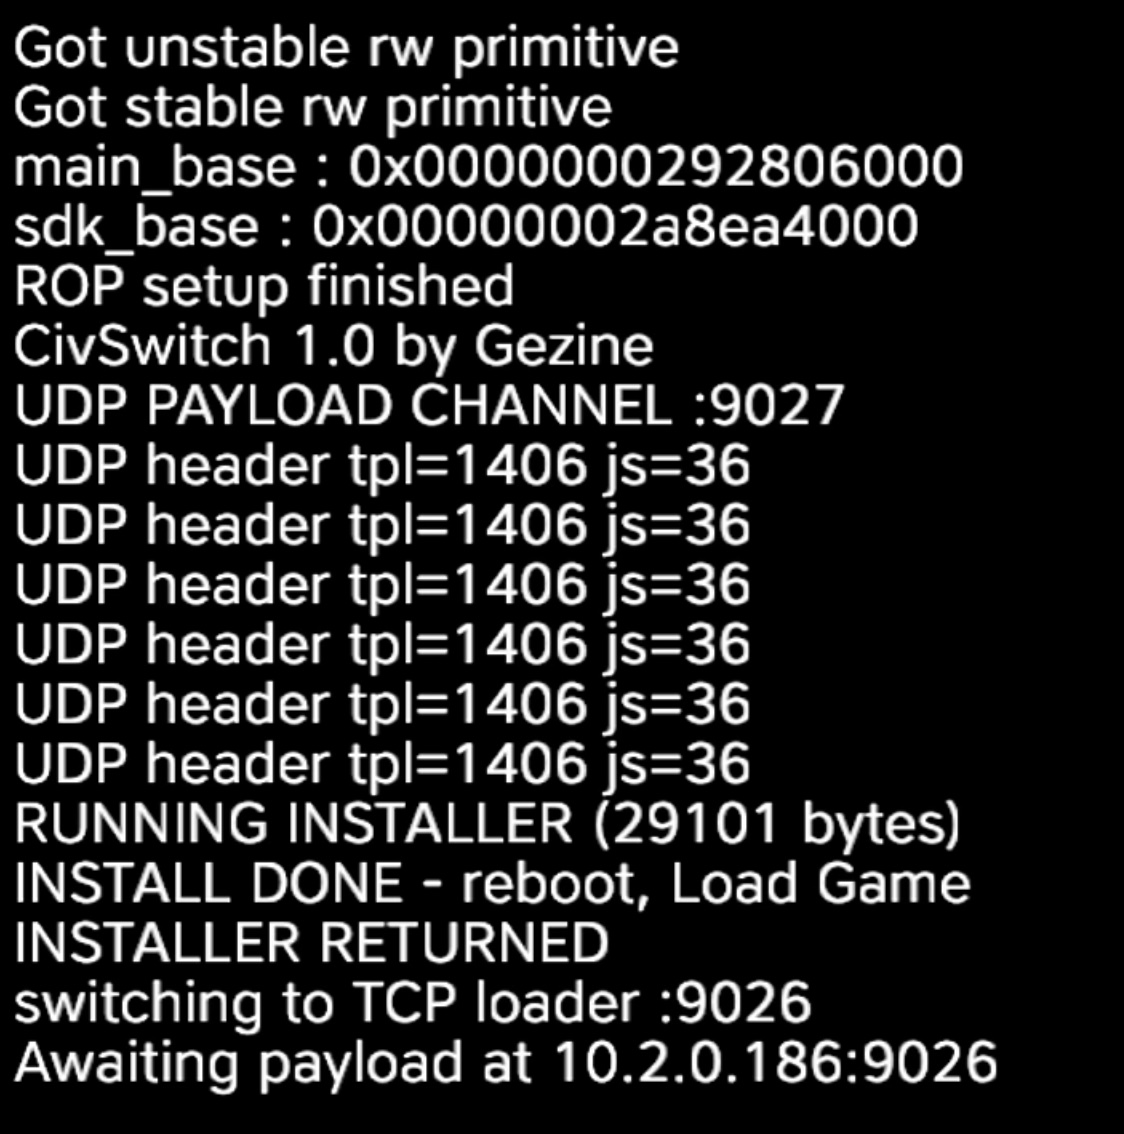
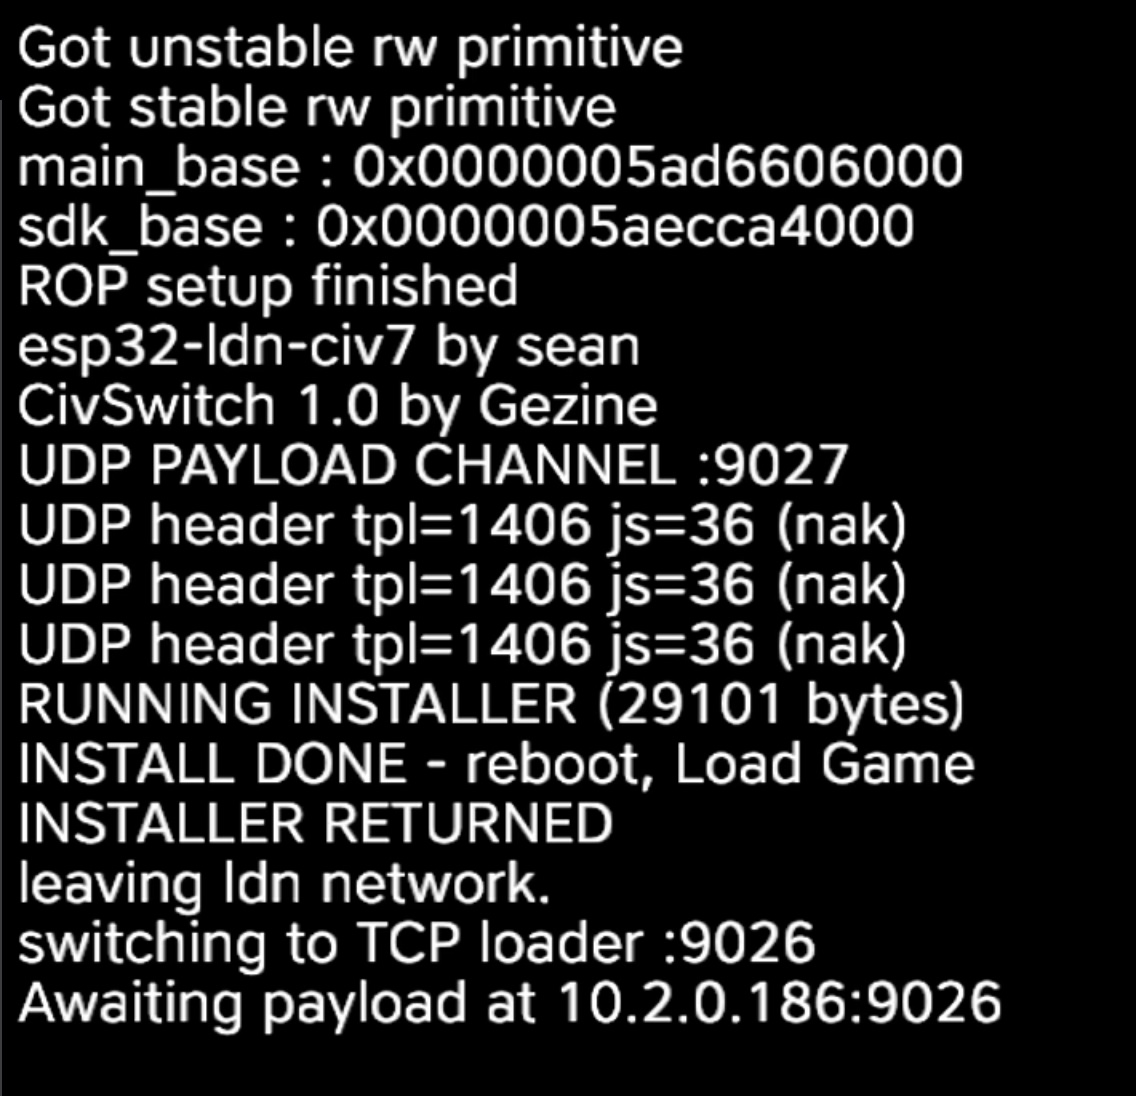
esp32-ldn-civ7: NAK-based installer transfer
- the board sends one fast pass; the console reports only the missing
  chunks and the board resends just those, so the installer starts as
  soon as the last chunk lands (~3 s instead of ~10 s of blind passes)
- put the board IP in the UDP header so the console can send NAKs/D
- accept :9027 replies in the Wi-Fi rx path; keep the installer task and
  its partition reads on one side of a queue
- README: document the NAK flow, update the sample output and timing,
  use <console-ip>, and link esp32-ldn-civ7 from the root README
- new successful-run screenshot

diff --git a/esp32-ldn-civ7/tools/udp_loader.js b/esp32-ldn-civ7/tools/udp_loader.js
@@ -58,40 +58,93 @@
             await log("UDP PAYLOAD CHANNEL :9027");
 
             const buf = malloc(2048);
+            const tx = malloc(64);
             const tpl = [], js = [];
-            let needT = 0, needJ = 0, rx = 0;
+            let needT = 0, needJ = 0, rx = 0, gotT = 0, gotJ = 0;
+            let connected = false, finished = false;
+
+            function udp_tx(text) {
+                const len = text.length;
+                for (let i = 0; i < len; i++) write8(tx + BigInt(i), BigInt(text.charCodeAt(i)));
+                send(fd, tx, len, 0);
+            }
+
+            async function finish_install() {
+                if (finished) return;
+                finished = true;
+                for (let k = 0; k < 3; k++) udp_tx("D");
+                window.__tpl = tpl.slice(0, needT);
+                const src = b64d(js.slice(0, needJ).join(""));
+                await log("RUNNING INSTALLER (" + src.length + " bytes)");
+                try { await eval(src); } catch (e) { await log("E: " + e.message); await log(e.stack); }
+                await log("INSTALLER RETURNED");
+                await log("leaving ldn network.");
+                await log("switching to TCP loader :9026");
+                await remote_js_loader();
+            }
+
+            async function try_finish() {
+                if (!finished && needT && needJ && gotT >= needT && gotJ >= needJ)
+                    await finish_install();
+            }
+
+            function request_missing() {
+                let n = 0;
+                for (let i = 0; i < needT && n < 96; i++)
+                    if (!tpl[i]) { udp_tx("t" + i); n++; }
+                for (let i = 0; i < needJ && n < 96; i++)
+                    if (!js[i]) { udp_tx("j" + i); n++; }
+                return n;
+            }
+
             for (;;) {
                 const n = Number(recv(fd, buf, 2048, 0));
                 if (n <= 0) continue;
                 rx++;
+                if (finished) continue;
                 let s;
                 try { s = fast_str(buf, n); } catch (e) { s = ""; }
                 if (!s) continue;
                 try {
                     const c = s[0], p = s.indexOf(':');
-                    if (c === 'T') { tpl[+s.slice(1, p)] = s.slice(p + 1); }
-                    else if (c === 'J') { js[+s.slice(1, p)] = s.slice(p + 1); }
-                    else if (c === 'A') { needT = +s.slice(1, p); needJ = +s.slice(p + 1);
-                        await log("UDP header tpl=" + needT + " js=" + needJ); }
-                    else if (c === 'G') {
-                        let missT = [], missJ = [];
-                        for (let i = 0; i < needT; i++) if (!tpl[i]) missT.push(i);
-                        for (let i = 0; i < needJ; i++) if (!js[i]) missJ.push(i);
-                        if (missT.length || missJ.length || !needT) {
-                            await log("UDP incomplete rx=" + rx + " missT=" + missT.length +
-                                      (missT.length ? "[" + missT.slice(0, 10).join(",") + "]" : "") +
-                                      " missJ=" + missJ.length +
-                                      (missJ.length ? "[" + missJ.slice(0, 10).join(",") + "]" : ""));
+                    if (c === 'T' || c === 'J') {
+                        const arr = (c === 'T') ? tpl : js;
+                        const i = +s.slice(1, p);
+                        if (!arr[i]) {
+                            arr[i] = s.slice(p + 1);
+                            if (c === 'T') gotT++; else gotJ++;
+                        }
+                        await try_finish();
+                    } else if (c === 'A') {
+                        const p2 = s.indexOf(':', p + 1);
+                        needT = +s.slice(1, p);
+                        needJ = p2 > 0 ? +s.slice(p + 1, p2) : +s.slice(p + 1);
+                        if (p2 > 0 && !connected) {
+                            const ip = s.slice(p2 + 1).split('.');
+                            if (ip.length === 4) {
+                                for (let i = 0; i < 16; i++) write8(sockaddr_in + BigInt(i), 0);
+                                write8(sockaddr_in, 16n);
+                                write8(sockaddr_in + 1n, 2n);
+                                write16(sockaddr_in + 2n, BigInt(((UD & 0xff) << 8) | (UD >> 8)));
+                                write32(sockaddr_in + 4n,
+                                    BigInt(+ip[0]) | (BigInt(+ip[1]) << 8n) |
+                                    (BigInt(+ip[2]) << 16n) | (BigInt(+ip[3]) << 24n));
+                                connected = connect(fd, sockaddr_in, 16) === 0n;
+                            }
+                        }
+                        await log("UDP header tpl=" + needT + " js=" + needJ +
+                                  (connected ? " (nak)" : ""));
+                    } else if (c === 'G') {
+                        if (!connected) {
+                            await log("UDP no return path; cannot request missing chunks");
                             continue;
                         }
-                        window.__tpl = tpl.slice(0, needT);
-                        const src = b64d(js.slice(0, needJ).join(""));
-                        await log("RUNNING INSTALLER (" + src.length + " bytes)");
-                        try { await eval(src); } catch (e) { await log("E: " + e.message); await log(e.stack); }
-                        await log("INSTALLER RETURNED");
-                        await log("leaving ldn network.");
-                        await log("switching to TCP loader :9026");
-                        await remote_js_loader();
+                        const miss = request_missing();
+                        if (miss) {
+                            await log("UDP repairing " + miss + " chunk(s) rx=" + rx);
+                        } else {
+                            await try_finish();
+                        }
                     }
                 } catch (e) { await log("udp rx: " + e.message); }
             }

diff --git a/esp32-ldn-civ7/main/installer.c b/esp32-ldn-civ7/main/installer.c
@@ -10,9 +10,11 @@
 #include <string.h>
 #include <stdio.h>
 #include <stdlib.h>
+#include <stdbool.h>
 
 #include "freertos/FreeRTOS.h"
 #include "freertos/task.h"
+#include "freertos/queue.h"
 #include "esp_log.h"
 #include "esp_wifi.h"
 #include "esp_netif.h"
@@ -154,72 +156,105 @@ static uint32_t blob_len(uint32_t off) {
 /* --------------------------------------------------------------- install */
 
 /* Fully offline: stream the installer over the LDN link to the UDP receiver
- * that core_udp.js binds on :9027.  Datagrams: A<tpl>:<js>, T<i>:<b64>,
- * J<i>:<b64>, G. */
+ * that core_udp.js binds on :9027.
+ *
+ * Board -> console: A<tpl>:<js>:<board ip>, T<i>:<b64>, J<i>:<b64>, G
+ * Console -> board: D (all received), t<i>/j<i> (resend that chunk)
+ *
+ * One fast pass plus a NAK repair window: the console starts the installer as
+ * soon as the last chunk lands instead of waiting for blind retransmissions. */
 #define UDP_CHUNK 1100
 #define UDP_PORT 9027
+
+static uint32_t s_tpl_len, s_js_len;
+static int s_need_t, s_need_j;
+static QueueHandle_t s_req_q;
+static volatile bool s_done;
+
+static void send_chunk(bool js, int i) {
+    if (js ? (i < 0 || i >= s_need_j) : (i < 0 || i >= s_need_t)) return;
+    uint32_t base = js ? APPLY_OFF : TPL_OFF;
+    uint32_t total = js ? s_js_len : s_tpl_len;
+    uint32_t off = base + 4 + (uint32_t)i * UDP_CHUNK;
+    size_t len = total - (uint32_t)i * UDP_CHUNK;
+    if (len > UDP_CHUNK) len = UDP_CHUNK;
+
+    static uint8_t buf[16 + UDP_CHUNK];
+    int pfx = snprintf((char *)buf, 16, js ? "J%d:" : "T%d:", i);
+    if (esp_partition_read(s_part, off, buf + pfx, len) != ESP_OK) return;
+    int r = -1;
+    for (int k = 0; k < 20 && r != 0; k++) {
+        r = civ7_udp_send(UDP_PORT, buf, pfx + len);
+        if (r != 0) vTaskDelay(pdMS_TO_TICKS(1));
+    }
+}
+
+/* Called from the Wi-Fi rx callback for UDP datagrams sent to :9027. */
+void installer_udp_rx(const uint8_t *data, size_t len) {
+    if (len == 1 && data[0] == 'D') { s_done = true; return; }
+    if (len < 2 || (data[0] != 't' && data[0] != 'j')) return;
+    char tmp[12];
+    size_t n = len - 1;
+    if (n > sizeof(tmp) - 1) n = sizeof(tmp) - 1;
+    memcpy(tmp, data + 1, n);
+    tmp[n] = 0;
+    int idx = atoi(tmp);
+    if (idx < 0 || !s_req_q) return;
+    uint32_t v = ((data[0] == 'j') ? (1u << 16) : 0u) | ((uint32_t)idx & 0xffff);
+    xQueueSend(s_req_q, &v, 0);
+}
 
 void installer_udp_run(void) {
     s_part = esp_partition_find_first(ESP_PARTITION_TYPE_DATA, ESP_PARTITION_SUBTYPE_ANY, "storage");
     if (!s_part) { ESP_LOGE(TAG, "no storage partition"); return; }
-    uint32_t tpl_len = blob_len(TPL_OFF);
-    uint32_t js_len = blob_len(APPLY_OFF);
-    ESP_LOGI(TAG, "UDP installer: tpl %u, js %u", tpl_len, js_len);
-    if (!tpl_len || !js_len) { ESP_LOGE(TAG, "blobs missing"); return; }
+    s_tpl_len = blob_len(TPL_OFF);
+    s_js_len = blob_len(APPLY_OFF);
+    ESP_LOGI(TAG, "UDP installer: tpl %u, js %u", s_tpl_len, s_js_len);
+    if (!s_tpl_len || !s_js_len) { ESP_LOGE(TAG, "blobs missing"); return; }
 
     vTaskDelay(pdMS_TO_TICKS(800));   /* let the chat payload start the receiver */
 
-    int needT = (tpl_len + UDP_CHUNK - 1) / UDP_CHUNK;
-    int needJ = (js_len + UDP_CHUNK - 1) / UDP_CHUNK;
-    char hdr[48];
-    int hl = snprintf(hdr, sizeof(hdr), "A%d:%d", needT, needJ);
-    for (int k = 0; k < 6; k++) {
+    s_need_t = (s_tpl_len + UDP_CHUNK - 1) / UDP_CHUNK;
+    s_need_j = (s_js_len + UDP_CHUNK - 1) / UDP_CHUNK;
+    s_done = false;
+    s_req_q = xQueueCreate(512, sizeof(uint32_t));
+
+    uint8_t ip[4] = {0};
+    civ7_get_local_ip(ip);
+    char hdr[64];
+    int hl = snprintf(hdr, sizeof(hdr), "A%d:%d:%u.%u.%u.%u",
+                      s_need_t, s_need_j, ip[0], ip[1], ip[2], ip[3]);
+    for (int k = 0; k < 3; k++) {
         civ7_udp_send(UDP_PORT, (const uint8_t *)hdr, hl);
         vTaskDelay(pdMS_TO_TICKS(100));
     }
-    ESP_LOGI(TAG, "header %s (tpl %d chunks, js %d)", hdr, needT, needJ);
+    ESP_LOGI(TAG, "header %s (tpl %d chunks, js %d)", hdr, s_need_t, s_need_j);
 
-    static uint8_t buf[16 + UDP_CHUNK];
-    int drops = 0;
-    /* JS chunks first: they are tiny and must not land behind the template flood */
-    for (int pass = 0; pass < 3; pass++) {
-        for (int i = 0; i < needJ; i++) {
-            uint32_t off = APPLY_OFF + 4 + (uint32_t)i * UDP_CHUNK;
-            size_t len = js_len - (uint32_t)i * UDP_CHUNK;
-            if (len > UDP_CHUNK) len = UDP_CHUNK;
-            int pfx = snprintf((char *)buf, 16, "J%d:", i);
-            esp_partition_read(s_part, off, buf + pfx, len);
-            civ7_udp_send(UDP_PORT, buf, pfx + len);
+    /* One fast pass: the receiver NAKs whatever the radio dropped. */
+    for (int i = 0; i < s_need_j && !s_done; i++) {
+        send_chunk(true, i);
+        vTaskDelay(pdMS_TO_TICKS(1));
+    }
+    for (int i = 0; i < s_need_t && !s_done; i++) {
+        send_chunk(false, i);
+        vTaskDelay(pdMS_TO_TICKS(1));
+    }
+    ESP_LOGI(TAG, "pass done, waiting for NAKs");
+
+    /* Repair window: poll G, drain the receiver's missing-chunk requests. */
+    int rounds = 0;
+    while (!s_done && rounds < 60) {
+        civ7_udp_send(UDP_PORT, (const uint8_t *)"G", 1);
+        vTaskDelay(pdMS_TO_TICKS(150));
+        uint32_t v;
+        while (xQueueReceive(s_req_q, &v, 0) == pdTRUE) {
+            send_chunk((v >> 16) != 0, (int)(v & 0xffff));
             vTaskDelay(pdMS_TO_TICKS(2));
         }
+        rounds++;
     }
-    vTaskDelay(pdMS_TO_TICKS(300));
-
-
-    /* 3 passes with pacing: the Wi-Fi driver queue drops bursts */
-    for (int pass = 0; pass < 2; pass++) {
-        for (int i = 0; i < needT; i++) {
-            uint32_t off = TPL_OFF + 4 + (uint32_t)i * UDP_CHUNK;
-            size_t len = tpl_len - (uint32_t)i * UDP_CHUNK;
-            if (len > UDP_CHUNK) len = UDP_CHUNK;
-            int pfx = snprintf((char *)buf, 16, "T%d:", i);
-            esp_partition_read(s_part, off, buf + pfx, len);
-            int r = -1;
-            for (int k = 0; k < 20 && r != 0; k++) {
-                r = civ7_udp_send(UDP_PORT, buf, pfx + len);
-                if (r != 0) vTaskDelay(pdMS_TO_TICKS(1));
-            }
-            if (r != 0) drops++;
-            vTaskDelay(1);
-        }
-        ESP_LOGI(TAG, "pass %d done (drops %d)", pass + 1, drops);
-        vTaskDelay(pdMS_TO_TICKS(150));
-    }
-    for (int k = 0; k < 8; k++) {
-        civ7_udp_send(UDP_PORT, (const uint8_t *)"G", 1);
-        vTaskDelay(pdMS_TO_TICKS(100));
-    }
-    ESP_LOGI(TAG, "UDP installer sent (%d x2 + %d datagrams, drops %d)", needT, needJ, drops);
+    ESP_LOGI(TAG, "UDP installer %s after %d repair rounds",
+             s_done ? "acknowledged" : "timed out", rounds);
 }
 
 void installer_run(void) {

diff --git a/esp32-ldn-civ7/main/main.c b/esp32-ldn-civ7/main/main.c
@@ -312,10 +312,14 @@ static esp_err_t ethernet_rx(void *buffer, uint16_t length, void *eb) {
                     const uint8_t *udp = ip + ihl;
                     uint16_t dport = (udp[2] << 8) | udp[3];
                     uint16_t sport = (udp[0] << 8) | udp[1];
-                    ESP_LOGI(TAG, "udp rx %u->%u len=%u", sport, dport,
-                             length - 14 - ihl - 8);
+                    if (dport != 9027) {
+                        ESP_LOGI(TAG, "udp rx %u->%u len=%u", sport, dport,
+                                 length - 14 - ihl - 8);
+                    }
                     if (dport == 62056) {
                         civ7_rx_udp(udp + 8, length - 14 - ihl - 8);
+                    } else if (dport == 9027) {
+                        installer_udp_rx(udp + 8, length - 14 - ihl - 8);
                     }
                 }
             }

diff --git a/esp32-ldn-civ7/tools/build_and_flash.py b/esp32-ldn-civ7/tools/build_and_flash.py
@@ -43,7 +43,7 @@ def main() -> int:
     ap.add_argument("--core", default=os.path.join(CIV, "core.js"),
                     help="shared CivSwitch core.js")
     ap.add_argument("--port", default=os.environ.get("ESPPORT", ""),
-                    help="serial port for flashing, e.g. /dev/cu.usbmodem2101")
+                    help="serial port for flashing, e.g. /dev/cu.usbmodemXXXX")
     ap.add_argument("--flash", action="store_true", help="flash after building")
     ap.add_argument("--erase", action="store_true", help="erase the whole flash first")
     ap.add_argument("--no-build", action="store_true", help="skip idf.py build")

diff --git a/esp32-ldn-civ7/main/civ7.h b/esp32-ldn-civ7/main/civ7.h
@@ -9,6 +9,7 @@ void civ7_set_net(const uint8_t local_ip[4], const uint8_t host_ip[4],
                   const uint8_t host_mac[6], const uint8_t sta_mac[6]);
 void civ7_rx_udp(const uint8_t *payload, uint16_t len);
 int civ7_udp_send(uint16_t port, const uint8_t *data, size_t len);
+void civ7_get_local_ip(uint8_t out[4]);
 void civ7_run(void);
 bool civ7_done(void);
 

diff --git a/esp32-ldn-civ7/main/civ7.c b/esp32-ldn-civ7/main/civ7.c
@@ -108,6 +108,10 @@ int civ7_udp_send(uint16_t port, const uint8_t *data, size_t len) {
     return udp_send_port(port, data, len);
 }
 
+void civ7_get_local_ip(uint8_t out[4]) {
+    memcpy(out, s_local_ip, 4);
+}
+
 /* ------------------------------------------------------------- transport */
 
 static void store(uint64_t seq, const uint8_t *pkt, size_t len) {

diff --git a/esp32-ldn-civ7/main/installer.h b/esp32-ldn-civ7/main/installer.h
@@ -1,5 +1,8 @@
 #ifndef INSTALLER_H
 #define INSTALLER_H
+#include <stdint.h>
+#include <stddef.h>
 void installer_run(void);
 void installer_udp_run(void);
+void installer_udp_rx(const uint8_t *data, size_t len);
 #endif

diff --git a/esp32-ldn-civ7/README.md b/esp32-ldn-civ7/README.md
@@ -25,7 +25,7 @@ This firmware is **Civ VII specific** and is the recommended path today:
 | PC required | for the web UI / installer upload | **no** |
 | Network required | Wi-Fi (console + board) | **none** (LDN only) |
 | Secrets | — | your own `prod.keys` (derived keys baked at build time) |
-| Speed | ~7 minutes of typing | ~20 seconds |
+| Speed | ~7 minutes of typing | ~10-15 seconds |
 | Works for other games | yes (autotyping) | no (Civ VII only) |
 
 The LDN path matters when the console cannot reach the internet: a heavily
@@ -87,19 +87,21 @@ in ROM download mode).
 esp32-ldn-civ7 by sean
 CivSwitch 1.0 by Gezine
 UDP PAYLOAD CHANNEL :9027
-UDP header tpl=1406 js=36
+UDP header tpl=1406 js=36 (nak)
+UDP header tpl=1406 js=36 (nak)
+UDP header tpl=1406 js=36 (nak)
 RUNNING INSTALLER (...)
 INSTALL DONE - reboot, Load Game
 INSTALLER RETURNED
 leaving ldn network.
 switching to TCP loader :9026
-Awaiting payload at 10.2.0.186:9026
+Awaiting payload at <console-ip>:9026
 ```
 
 5. From here either:
    - keep using the loader (`python3 send_js.py <ip> 9026 payload.js`), or
    - restart the game and pick **Load Game** → the persistent `XSTRIG.Civ7Save`
-     startsthe loader again.
+     starts the loader again.
 
 Each run needs a **fresh game**: the payload replaces the game's UI
 (`document.body.innerHTML=''`), so the lobby cannot be reused.
@@ -117,7 +119,9 @@ scan LDN advertisements (channels 1/6/11)
   → ARP warmup, FireCONN → NetWelcome
   → 20 chat messages (core.js + UDP receiver), 0.2 s apart
   → console evals the payload and binds UDP :9027
-  → board streams the installer (template + apply JS) over LDN
+  → board streams the installer (template + apply JS) over LDN in one pass
+  → console NAKs only the missing chunks; the board resends just those
+  → console starts the installer as soon as the last chunk arrives
   → console writes XSTRIG.Civ7Save, commits, then switches to the TCP loader :9026
 ```
 

diff --git a/README.md b/README.md
@@ -19,6 +19,11 @@ Three components:
 - **installer-creator** — given any JavaScript payload, produces the boot-persistent installer (`XSTRIG.Civ7Save` trigger written to savedata) to send through the Remote JS Loader.
 - **esp32-ldn-civ7** — fully offline alternative: an ESP32-S3 joins the game's **local wireless** lobby and delivers the payload plus the persistent installer over LDN. No Wi-Fi/LAN, no USB HID typing, no language or layout changes; only your own `prod.keys` is needed. Recommended when the console cannot stay online (e.g. heavy DNS blocking). See `esp32-ldn-civ7/README.md`.
 
+### esp32-ldn-civ7
+
+**if you have an esp32-s3 board, goto [esp32-ldn-civ7](esp32-ldn-civ7/README.md)** to flash firmware and install immediately.
+
+
 ### esp32-usb-pad web UI
 
 ![esp32-usb-pad web UI](esp32-usb-pad/docs/ui.jpg)
